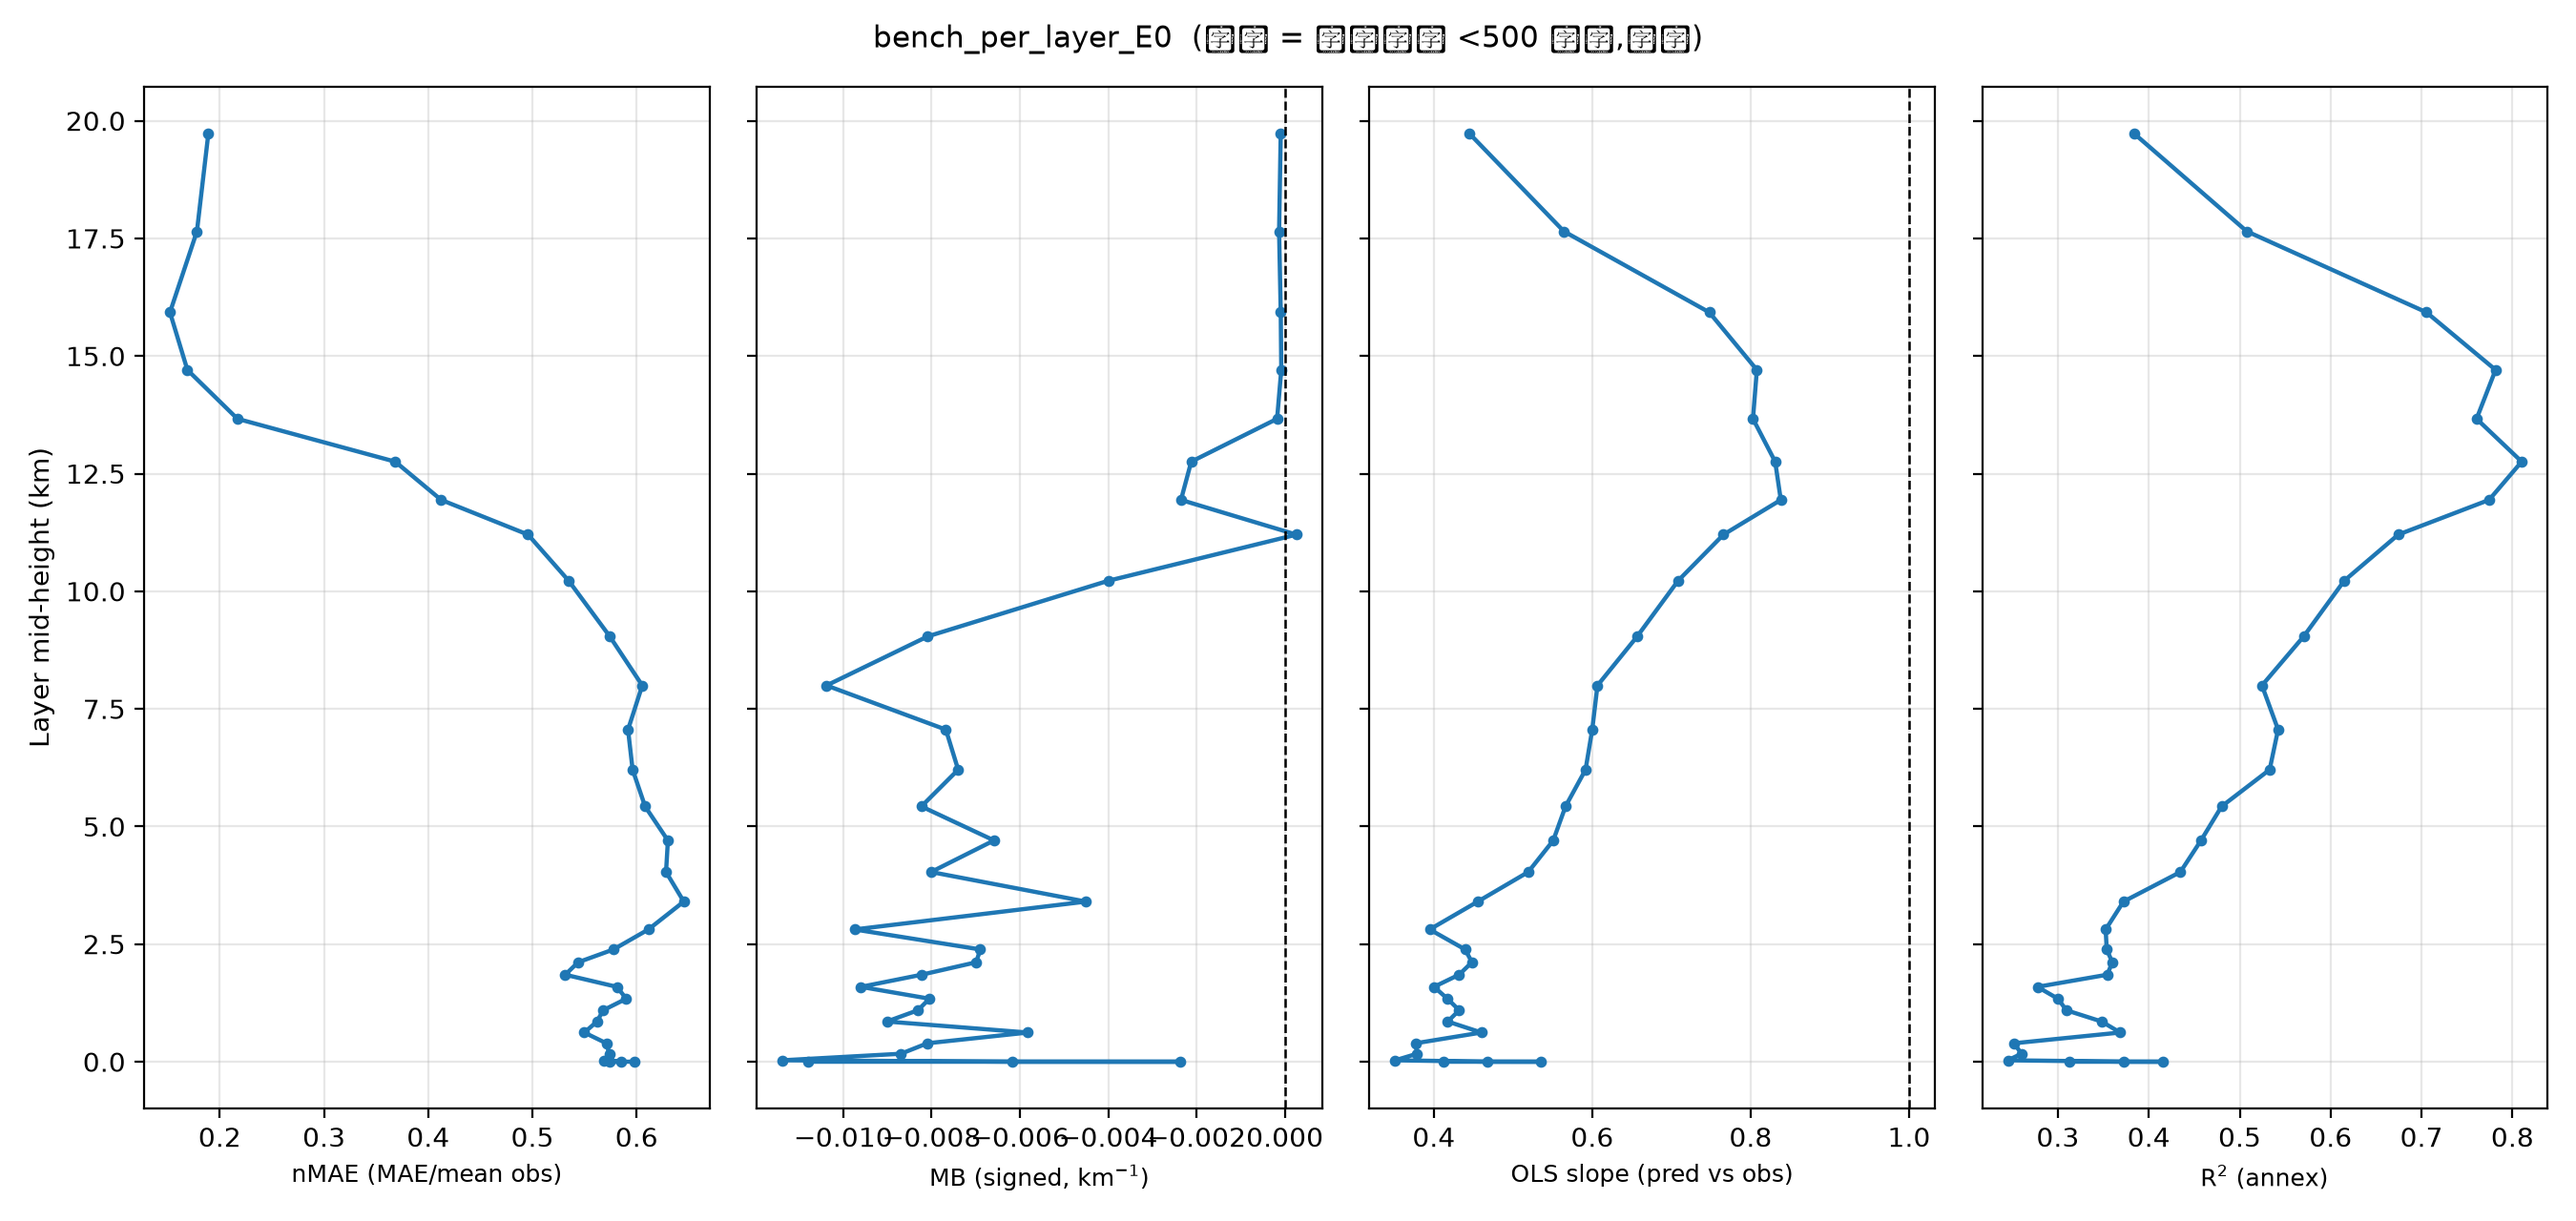
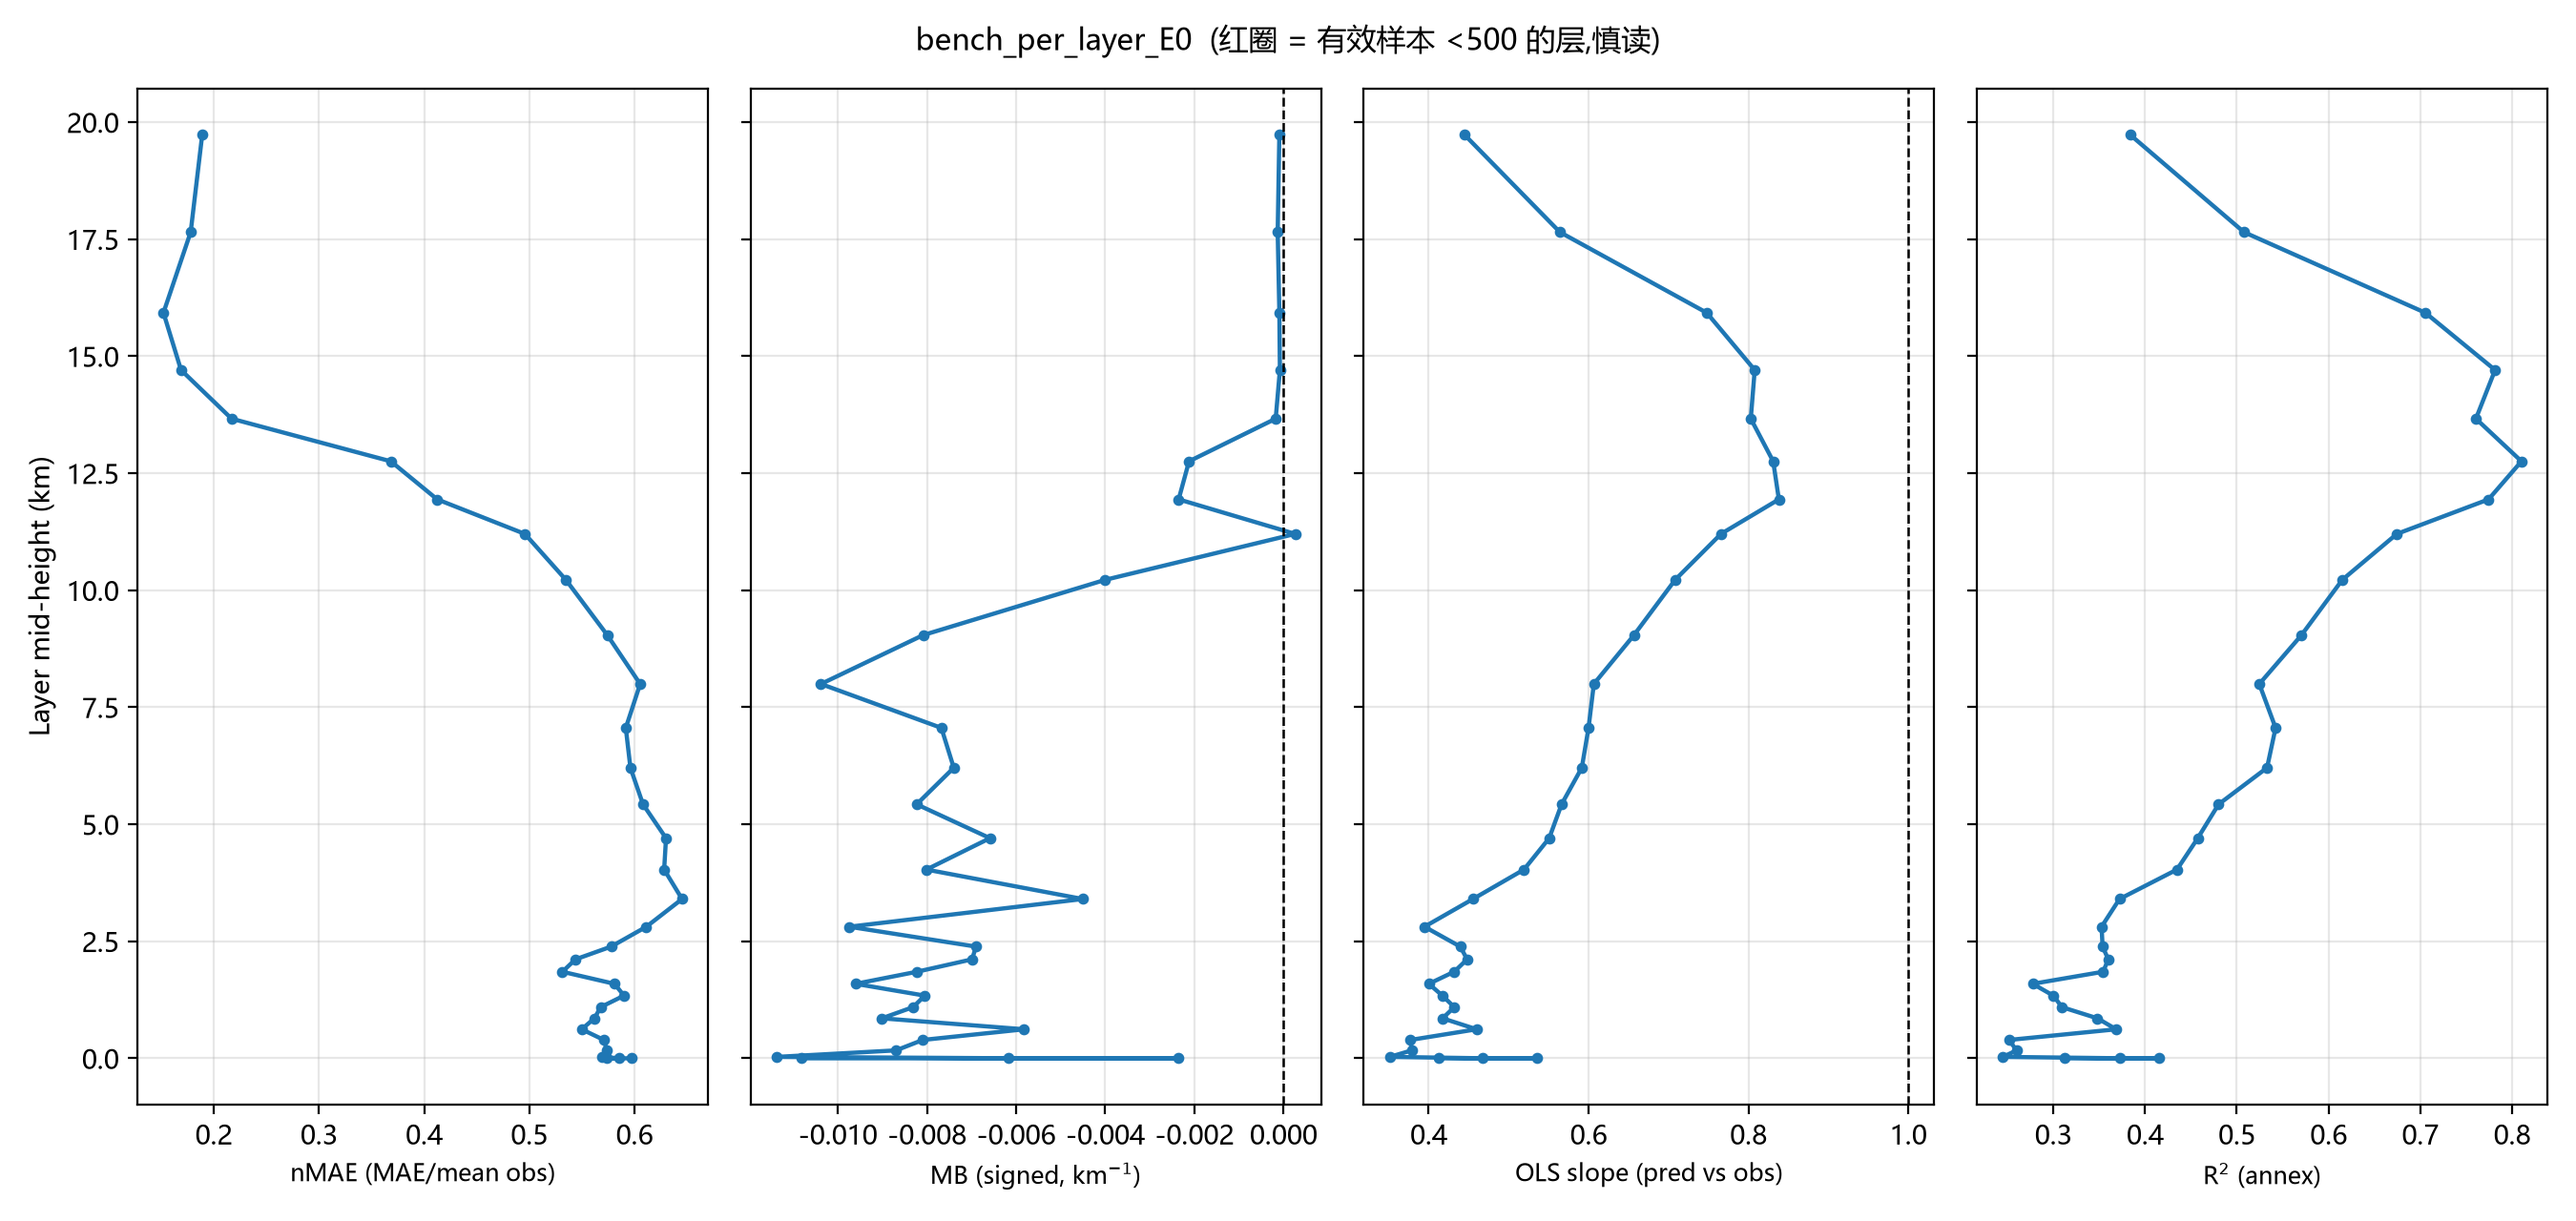
Step A/方向3: matplotlib CJK 字体修复(setup_cjk, 微软雅黑优先+unicode_minus) — 全部 bench 图重生成,中文正常

diff --git a/acdl_plotting.py b/acdl_plotting.py
@@ -24,12 +24,24 @@ import numpy as np
 # ============================================================
 # 公共小工具
 # ============================================================
+def setup_cjk():
+    """中文字体设置(防豆腐框):Windows 首选微软雅黑,再试黑体/Noto/思源;负号用 ASCII。"""
+    import matplotlib
+    matplotlib.rcParams["font.sans-serif"] = [
+        "Microsoft YaHei", "SimHei", "Noto Sans CJK SC", "Source Han Sans SC",
+        "PingFang SC", "WenQuanYi Micro Hei", "DejaVu Sans",
+    ]
+    matplotlib.rcParams["font.family"] = "sans-serif"
+    matplotlib.rcParams["axes.unicode_minus"] = False
+
+
 def _plt():
     """惰性导入 matplotlib(无头模式);失败返回 None。"""
     try:
         import matplotlib
         matplotlib.use("Agg")
         import matplotlib.pyplot as plt
+        setup_cjk()
         return plt
     except Exception as exc:
         print(f"  (跳过绘图: {exc})")

diff --git a/evaluate_bench.py b/evaluate_bench.py
@@ -197,6 +197,8 @@ def _plt():
         import matplotlib
         matplotlib.use("Agg")
         import matplotlib.pyplot as plt
+        from acdl_plotting import setup_cjk
+        setup_cjk()
         return plt
     except Exception as exc:
         print(f"  (跳过绘图: {exc})")
